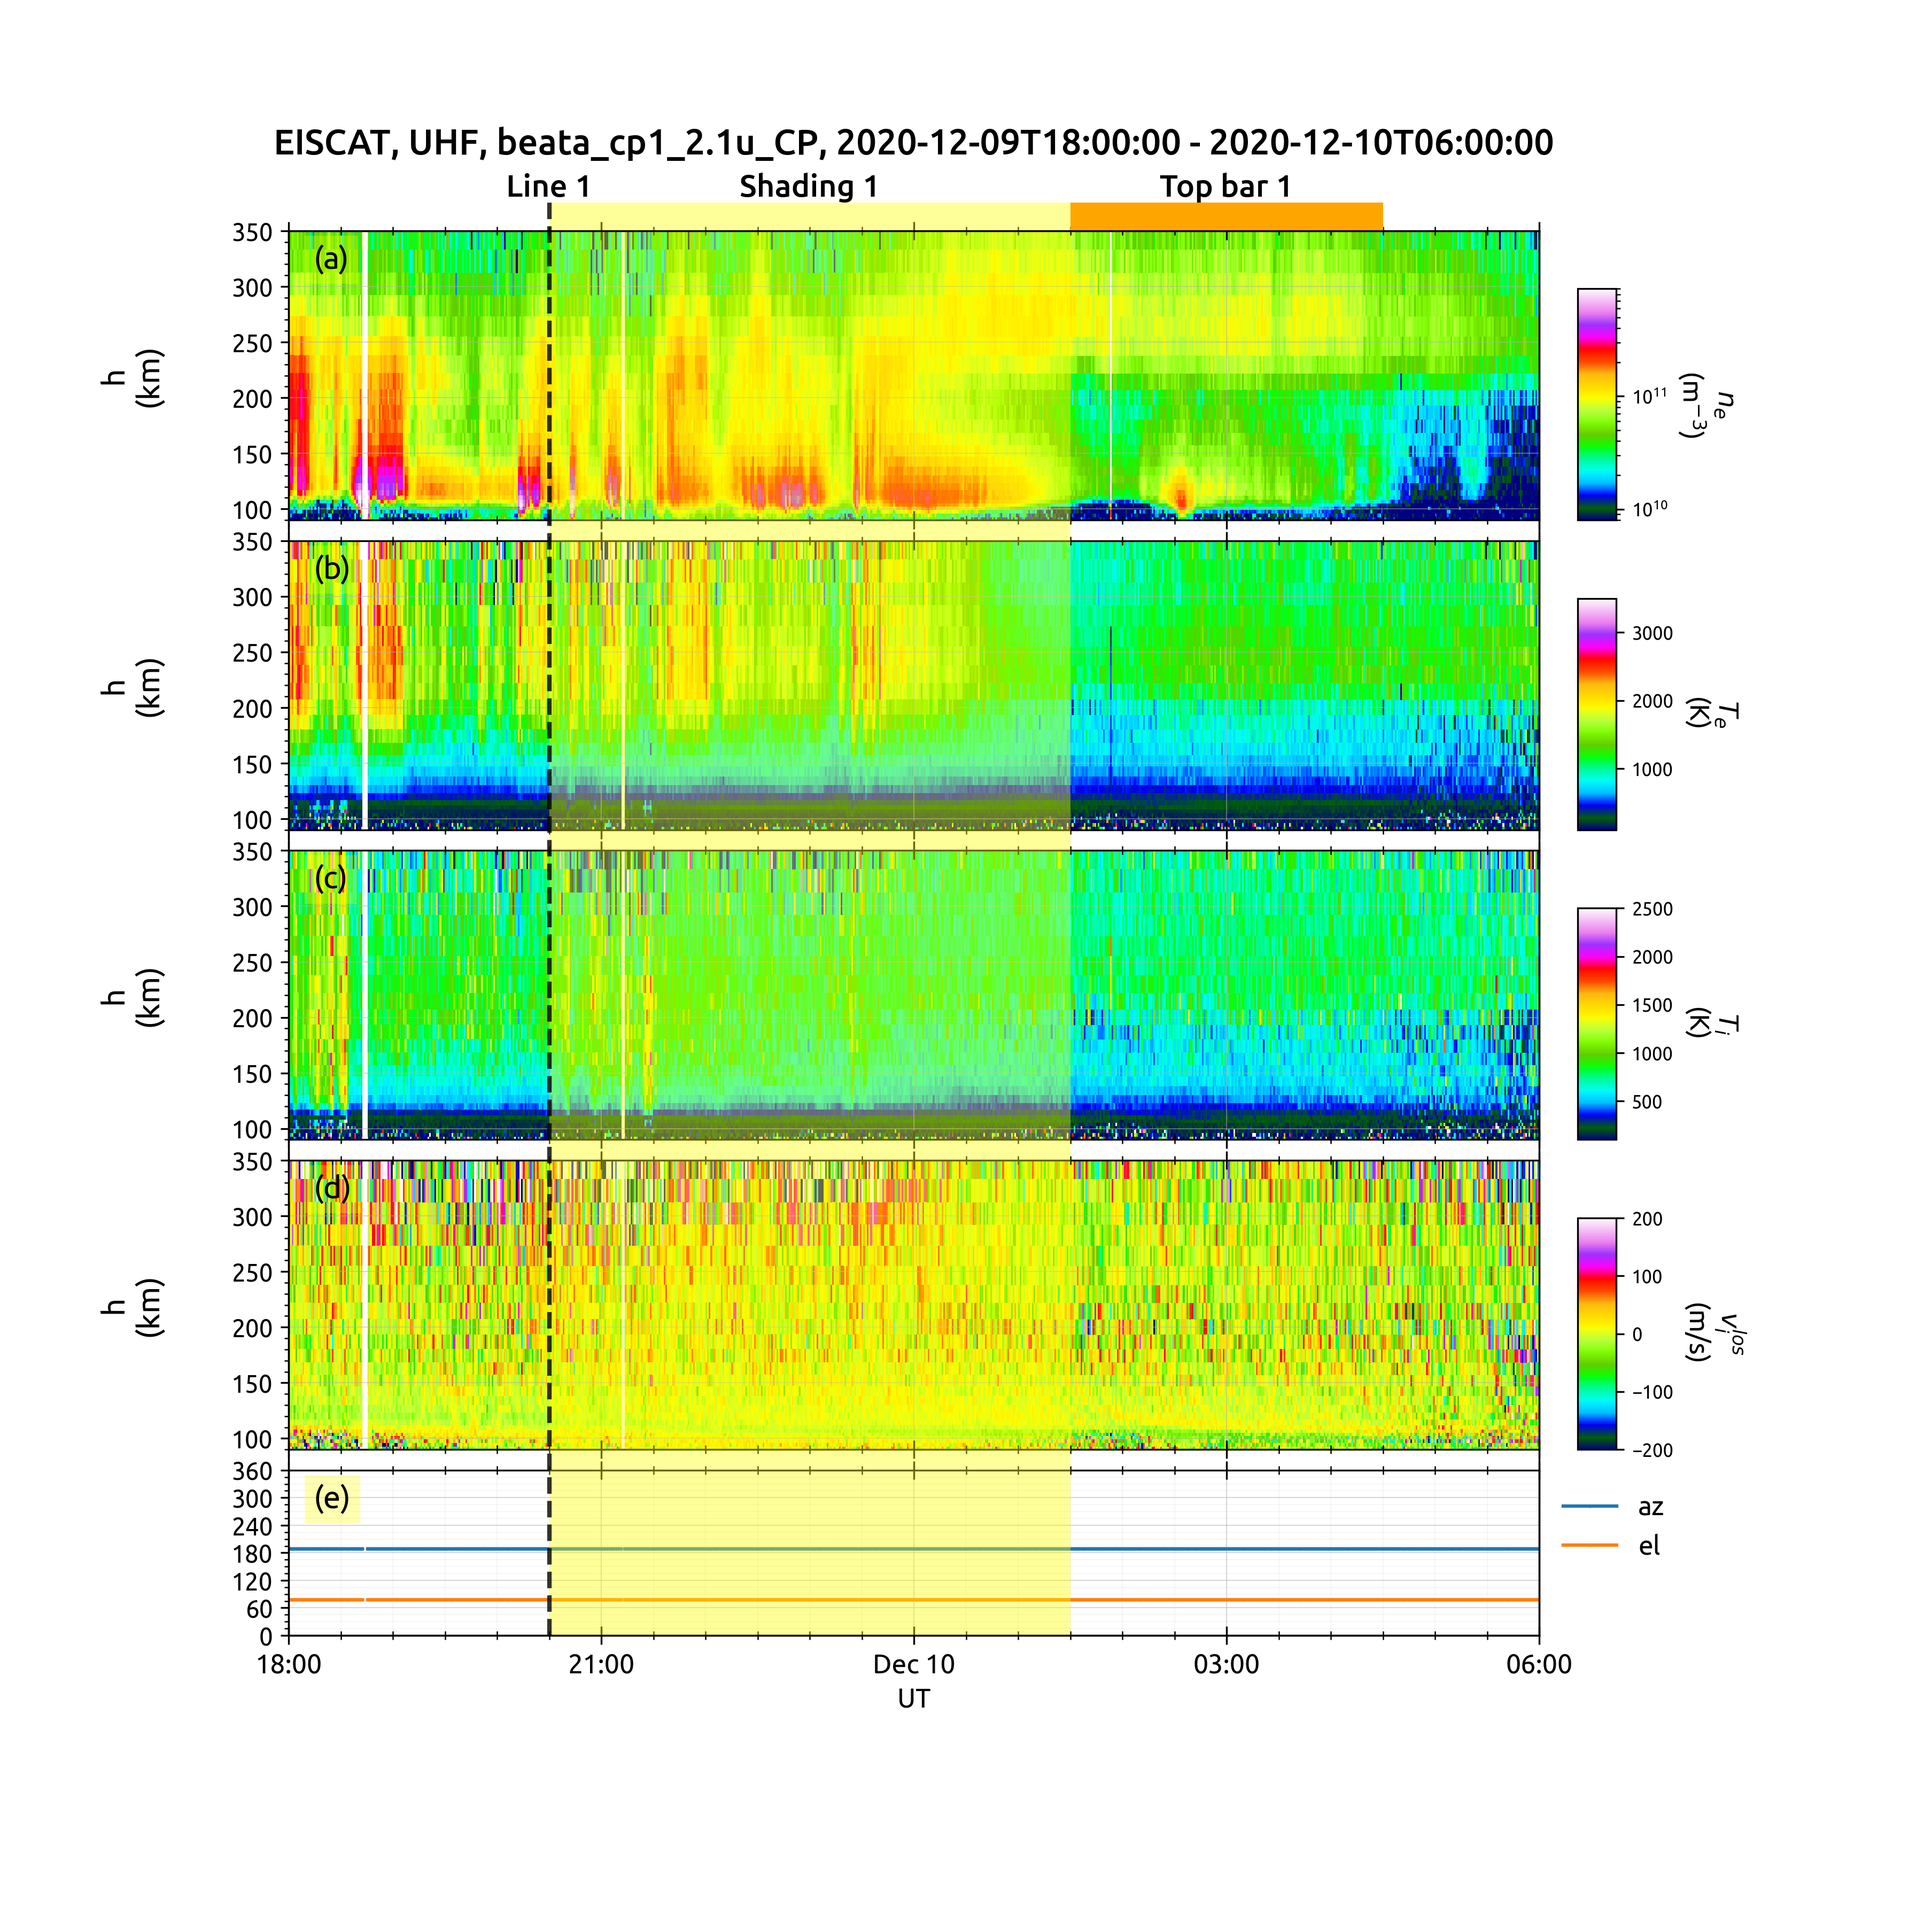
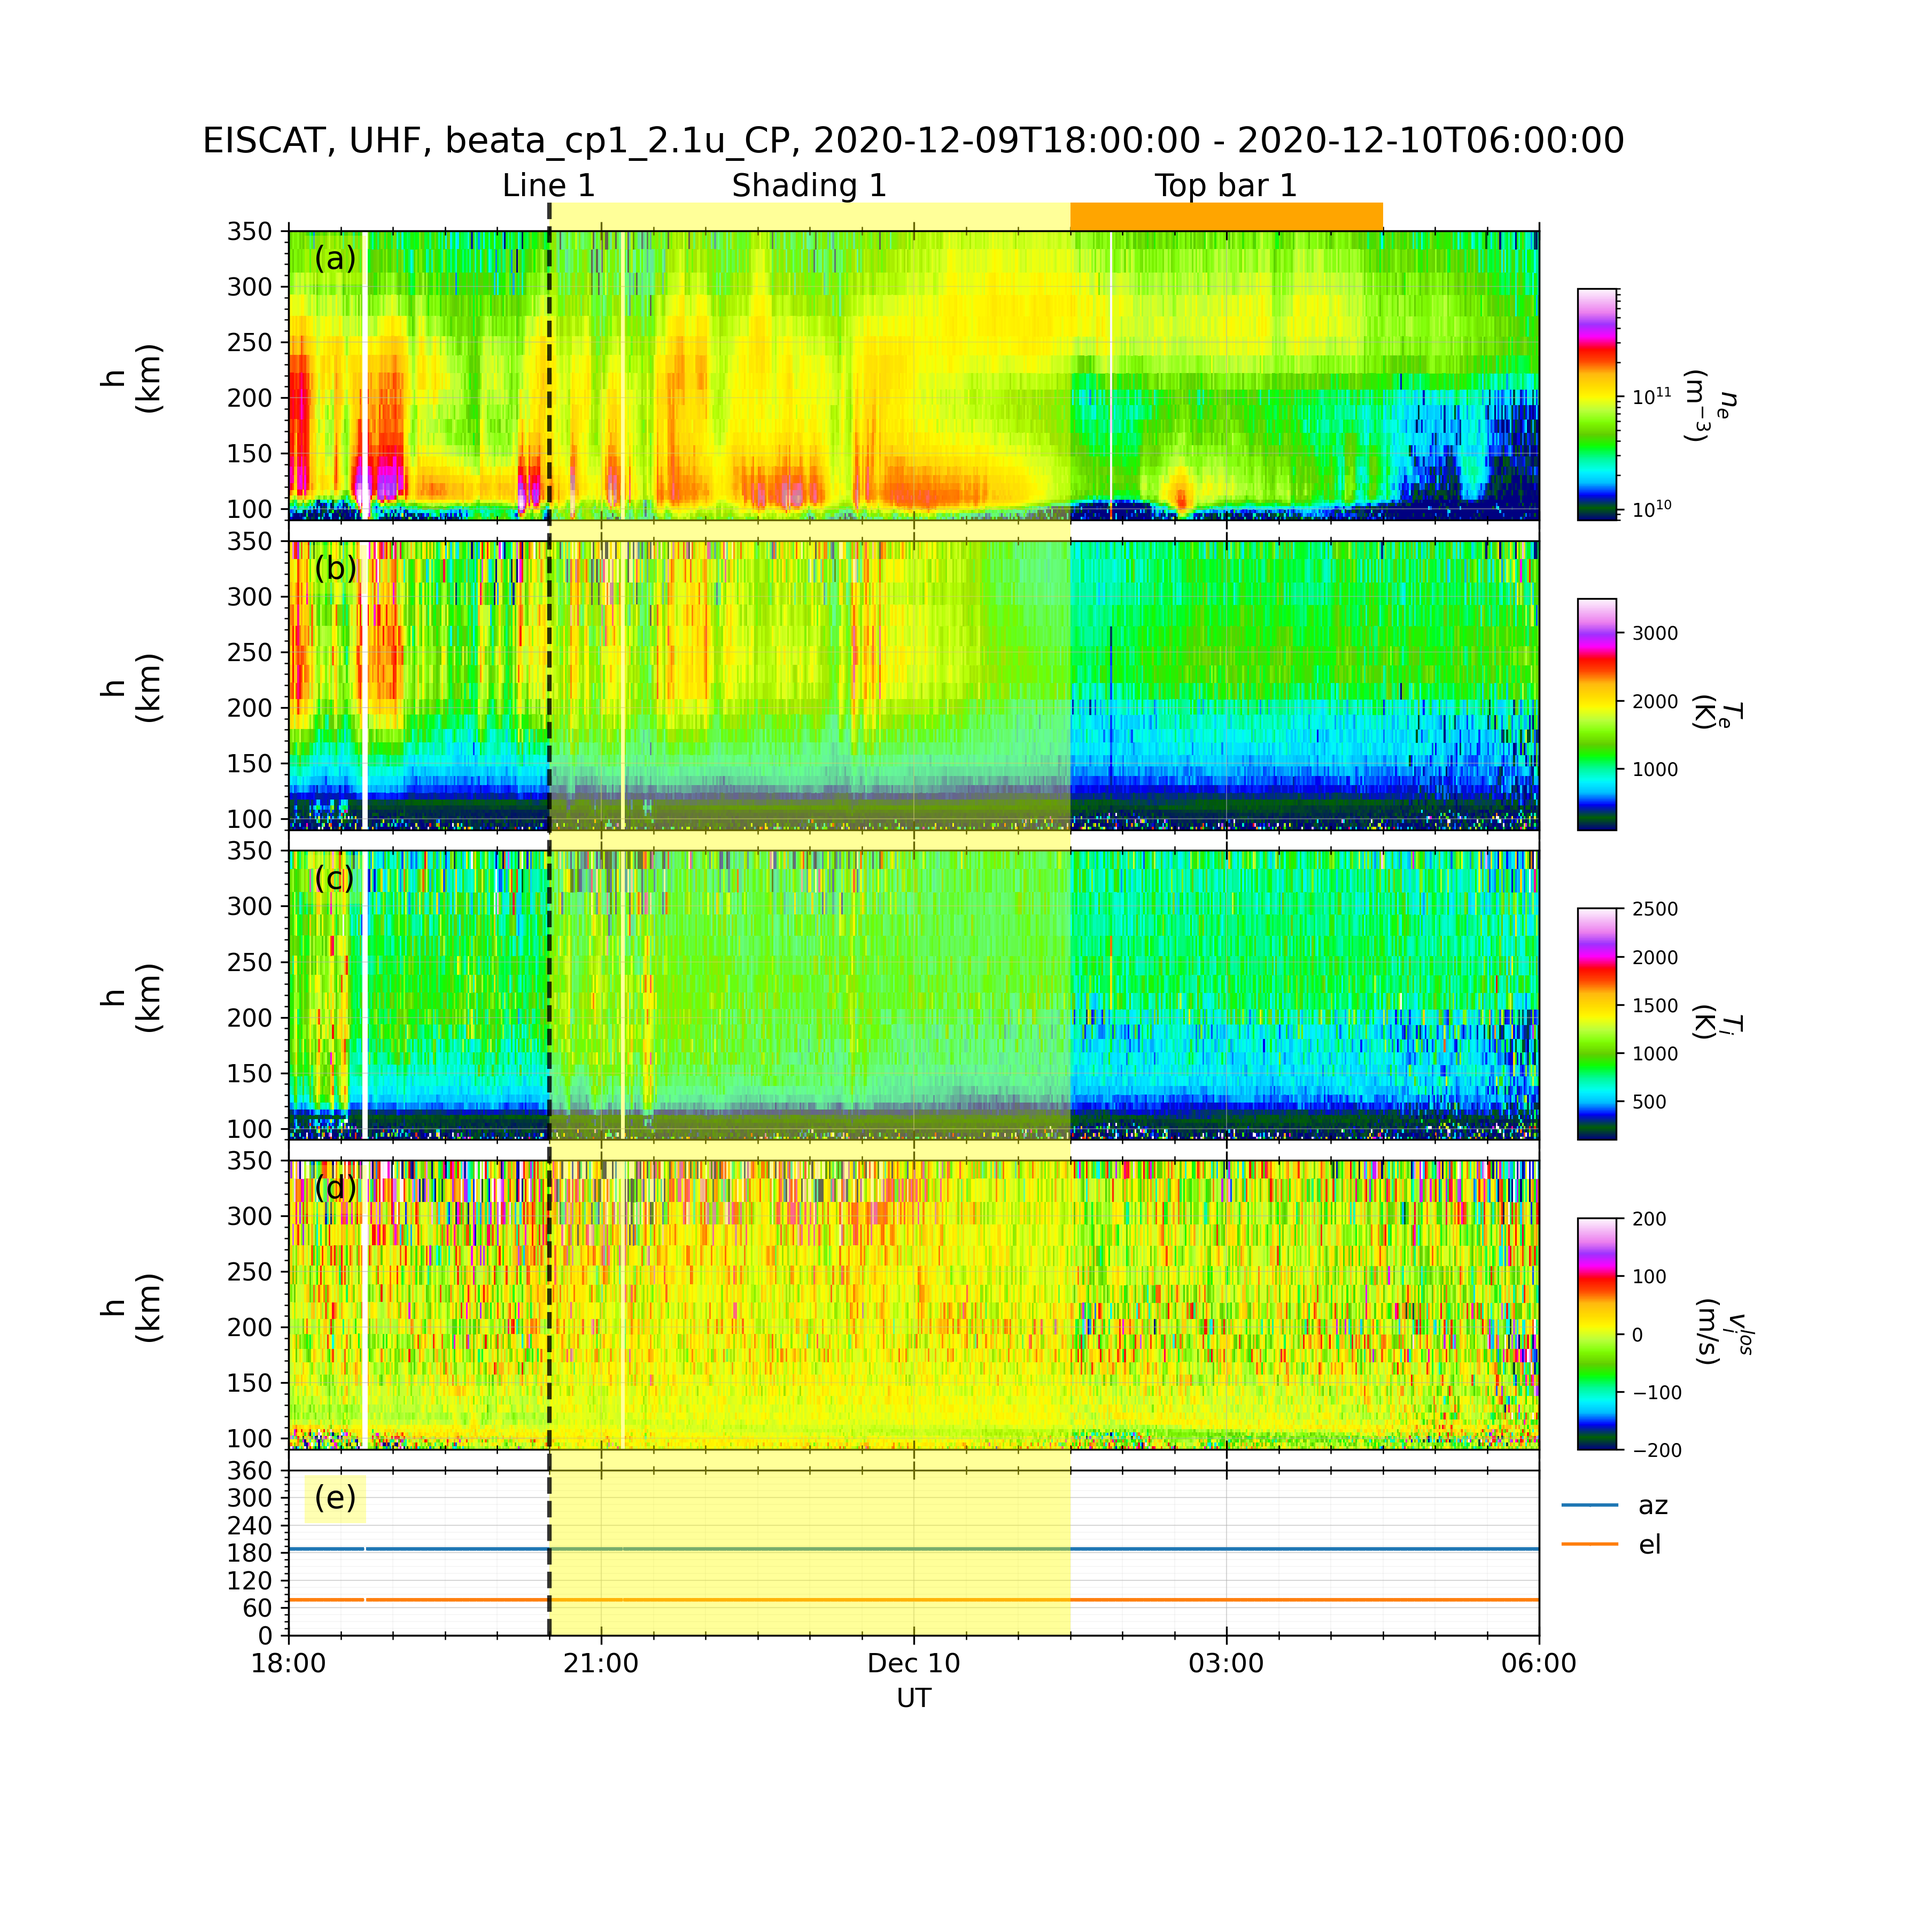
Fix error in eiscat_viewer

diff --git a/geospacelab/datahub/sources/madrigal/eiscat/__utilities.py b/geospacelab/datahub/sources/madrigal/eiscat/__utilities.py
@@ -3,7 +3,7 @@ import pathlib
 import geospacelab.toolbox.utilities.pylogging as mylog
 
 
-def list_eiscat_hdf5_variables(fh5, var_groups=None, var_names_queried=None, display=True):
+def list_eiscat_hdf5_variables(fh5, var_groups=None, var_names_queried=None, display=False):
     if isinstance(fh5, str) or isinstance(fh5, pathlib.PurePath):
         fh5 = h5py.File(fh5, 'r')
     elif not isinstance(fh5, h5py._hl.files.File):

diff --git a/geospacelab/visualization/eiscat_viewer.py b/geospacelab/visualization/eiscat_viewer.py
@@ -5,8 +5,6 @@ from geospacelab import preferences as pfr
 
 
 def example():
-    # prf.datahub_data_root_dir = '/Users/lcai/01-Work/00-Data'
-    pfr.datahub_data_root_dir = '/data/afys-ionosphere/data'
 
     dt_fr = datetime.datetime.strptime('20201209' + '1800', '%Y%m%d%H%M')
     dt_to = datetime.datetime.strptime('20201210' + '0600', '%Y%m%d%H%M')

diff --git a/geospacelab/visualization/mpl_toolbox/time_series.py b/geospacelab/visualization/mpl_toolbox/time_series.py
@@ -21,7 +21,7 @@ import geospacelab.visualization.mpl_toolbox.axis_ticks as ticktool
 
 # plt.style.use('ggplot')
 
-plt.rcParams['font.family'] = 'serif'
+# plt.rcParams['font.family'] = 'serif'
 plt.rcParams['font.serif'] = 'Ubuntu'
 plt.rcParams['font.monospace'] = 'Ubuntu Mono'
 plt.rcParams['font.size'] = 12
